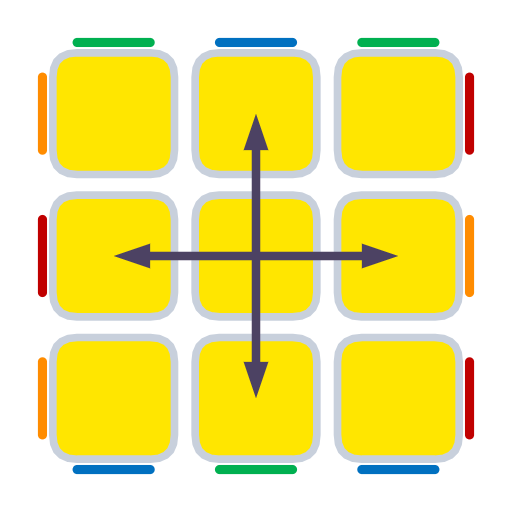
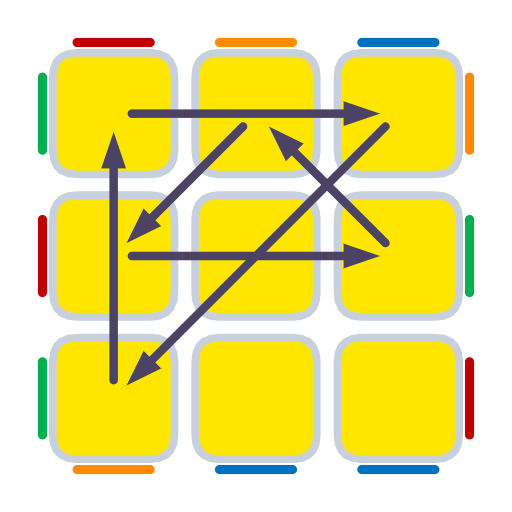
PLL 改用标准编号 1-21，文件同步重命名
标准编号按字母序：1 Aa 2 Ab 3 E 4 F 5 Ga 6 Gb 7 Gc 8 Gd 9 H 10 Ja
11 Jb 12 Na 13 Nb 14 Ra 15 Rb 16 T 17 Ua 18 Ub 19 V 20 Y 21 Z。

换算（用户编号->标准）: 01->17 02->18 03->1 04->2 05->9 06->21 07->3
08->16 09->4 10->19 11->20 12->13 13->12 14->11 15->10 16->14 17->15
18->7 19->8 20->5 21->6

抽查印证：标准 16 = T-perm、9 = H-perm、17 = Ua-perm，公式与字母全部对应。
校验 78 条全部通过。

过程中修掉一个隐患：gen3.py 末尾的 build() 会在被 import 时重新生成页面，
导致 gen5 一跑就用旧编号逻辑覆盖掉刚生成的 oll.html。已去掉该副作用。

diff --git a/pll.html b/pll.html
@@ -97,27 +97,27 @@
    逐条用 tools/verify.py 校验过「照图摆好直接就能用」。 */
 var SECTIONS = [
   { title: "21 种", cnt: 21, rows: [
-    [1, "(R U' R) (U R) (U R U' R' U' R'2)"],
-    [2, "(R2 U) (R U R' U' R' U') (R' U R')"],
-    [3, "x' R2 D2 (R' U' R) D2 (R' U R')"],
-    [4, "x' (R U' R) D2 (R' U R) D2 R'2"],
-    [5, "M'2 U M'2 U2 M'2 U M'2"],
-    [6, "U (R' U' R U') (R U R U') (R' U R U) (R2 U' R' U)"],
-    [7, "x' (R U' R' D) (R U R' D') (R U R' D) (R U' R' D')"],
-    [8, "(R U R' U') (R' F R2 U' R' U') (R U R' F')"],
-    [9, "R' U' F' (R U R' U' R' F R2 U' R' U' R U R' F') F U R"],
-    [10, "R' U R' d' R' F' R2 U' R' U R' F R F"],
-    [11, "F (R U' R' U' R U R') F' (R U R' U') (R' F R F')"],
-    [12, "R' U R U' R' F' U' F R U R' F R' F' R U' R"],
-    [13, "R U R' U (R U R' F' R U R' U' R' F R2 U' R' U') U' R U' R'"],
-    [14, "(R U R' F') (R U R' U') (R' F) (R2 U' R' U')"],
-    [15, "(L' U' L F) (L' U' L U) (L F') (L2 U L U)"],
-    [16, "(R U R' F') (R U'2 R' U2) (R' F R U) (R U'2 R' U')"],
-    [17, "(L' U' L F) (L' U2 L U'2) (L F' L' U') (L' U2 L U)"],
-    [18, "(R'2 u' R U' R) (U R' u R2) y (R U' R')"],
-    [19, "(R U R') y' (R'2 u' R U') (R' U R' u R2)"],
-    [20, "(R2 u) (R' U R' U' R u' R'2) y' (R' U R)"],
-    [21, "(R' U' R) y (R2 u) (R' U R U') (R u' R'2)"],
+    [1, "x' R2 D2 (R' U' R) D2 (R' U R')"],
+    [2, "x' (R U' R) D2 (R' U R) D2 R'2"],
+    [3, "x' (R U' R' D) (R U R' D') (R U R' D) (R U' R' D')"],
+    [4, "R' U' F' (R U R' U' R' F R2 U' R' U' R U R' F') F U R"],
+    [5, "(R2 u) (R' U R' U' R u' R'2) y' (R' U R)"],
+    [6, "(R' U' R) y (R2 u) (R' U R U') (R u' R'2)"],
+    [7, "(R'2 u' R U' R) (U R' u R2) y (R U' R')"],
+    [8, "(R U R') y' (R'2 u' R U') (R' U R' u R2)"],
+    [9, "M'2 U M'2 U2 M'2 U M'2"],
+    [10, "(L' U' L F) (L' U' L U) (L F') (L2 U L U)"],
+    [11, "(R U R' F') (R U R' U') (R' F) (R2 U' R' U')"],
+    [12, "R U R' U (R U R' F' R U R' U' R' F R2 U' R' U') U' R U' R'"],
+    [13, "R' U R U' R' F' U' F R U R' F R' F' R U' R"],
+    [14, "(R U R' F') (R U'2 R' U2) (R' F R U) (R U'2 R' U')"],
+    [15, "(L' U' L F) (L' U2 L U'2) (L F' L' U') (L' U2 L U)"],
+    [16, "(R U R' U') (R' F R2 U' R' U') (R U R' F')"],
+    [17, "(R U' R) (U R) (U R U' R' U' R'2)"],
+    [18, "(R2 U) (R U R' U' R' U') (R' U R')"],
+    [19, "R' U R' d' R' F' R2 U' R' U R' F R F"],
+    [20, "F (R U' R' U' R U R') F' (R U R' U') (R' F R F')"],
+    [21, "U (R' U' R U') (R U R U') (R' U R U) (R2 U' R' U)"],
   ] },
 ];
 

diff --git a/README.md b/README.md
@@ -295,10 +295,11 @@ cube-1024x1033.svg    高清，矢量可无损缩放
 风格与 `f2l.html` 一致（固定白底、橙色分节条、点公式即复制）。
 OLL/**标准编号 1–57**，按顶面图案分四张表：十字、单点、一字、拐角
 （分组不变，但组内编号是标准值，所以每组里编号不连续，例如单点是
-`1 2 3 4 17 18 19 20`）。PLL 一张表 21 个。
+`1 2 3 4 17 18 19 20`）。**PLL 同样是标准编号 1–21**（字母序：1 Aa … 21 Z），
+一张表全列。
 
-> 图片文件名也是标准编号（`oll/oll-21-512x512.png` 等），和公式库、网上资料对得上。
-> 原来那套「按分组顺序编 1–57」的自定义编号已废弃。
+> 图片文件名也是标准编号（`oll/oll-21-512x512.png`、`pll/pll-16-512x512.png` 等），
+> 和公式库、网上资料对得上。原来那套自定义编号已全部废弃。
 
 公式取自知乎「小狼啊小狼」的 CFOP 系列，但**逐条做过朝向校验**，
 不能拿来就用的一律换掉或留空：
